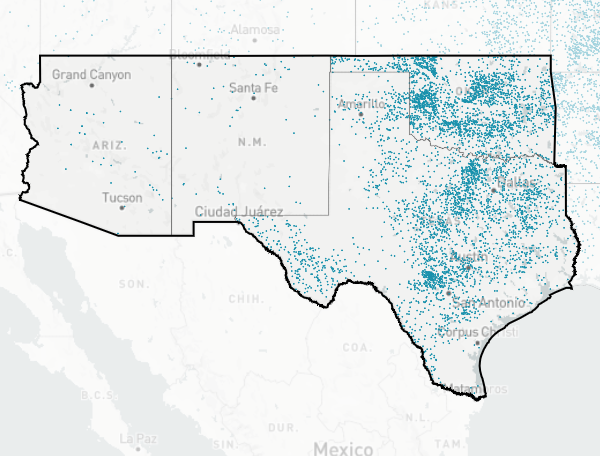
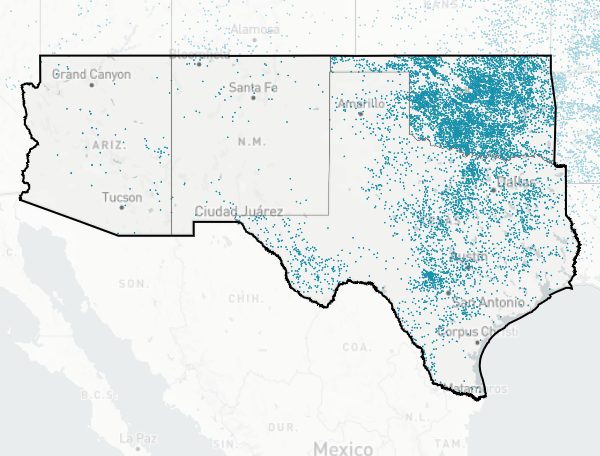
Fix map generation bug and regenerate region maps

diff --git a/analysis/post/maps/index.js b/analysis/post/maps/index.js
@@ -21,6 +21,8 @@ const regions = JSON.parse(
   fs.readFileSync('../../../ui/data/region_bounds.json')
 )
 
+console.log(regions)
+
 const style = {
   version: 8,
   sources: {
@@ -104,7 +106,7 @@ const style = {
   ],
 }
 
-Object.entries(regions).forEach(([id, bounds]) => {
+regions.forEach(({ id, bbox: bounds }) => {
   console.log(`Creating region map for ${id}`)
   style.layers[3].filter = ['==', 'id', id]
   style.layers[4].filter = ['==', 'id', id]
